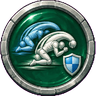
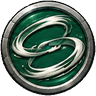
宝物11/印记19正式图标（图标优先用自己的图）；战场物件掉符文（狂暴/急速/疾风/守护/回复，10秒）和小概率技能书
Claude-Session: https://claude.ai/code/session_015MetZpZfHySQWDEPDS41Tu

diff --git a/js/battle.js b/js/battle.js
@@ -88,6 +88,7 @@
     m.dmg = (1 + (c.fx.dmg || 0)) * (1 + .03 * (G.lv - 1)) * (1 + (TT().dmg || 0)); m.spd = c.spd; m.area = c.area; m.move = c.move;
     hero.critP = c.critP; hero.critM = c.critM; hero.critMulP = c.critMulP; hero.critMulM = c.critMulM; hero.eva = c.eva + (RUN.hero === 'e' ? .08 : 0); hero.pIn = c.pIn; hero.mIn = c.mIn; hero.xpMul = c.xp * (RUN.hero === 'm' ? 1.1 : 1); hero.rollMax = 3; hero.rollN0 = 2; if (hero.rollN == null || hero.rollN > hero.rollN0) hero.rollN = hero.rollN0; /* 11/24 翻滚 2 格（二段滚 3 格），每格 1.5 秒回 */ hero.A = c.A; hero.fx = c.fx;   // 人物被动：男主经验 +10%，女主翻滚冷却 −20%（11/23 修：hero.A / hero.fx 之前被注释吞掉了）   // 11/26 戈拉斯尔：自带闪避 +8%
     hero.ob = {}; while (RUN.oath.length < DATA.oathSize) RUN.oath.push(null); RUN.oath.forEach((o, i) => { if (o && DATA.oaths[o.id] && (!DATA.oaths[o.id].w || DATA.heldWeapons(RUN).has(DATA.oaths[o.id].w))) hero.ob[o.id] = DATA.oathLv[Math.min(5, o.lv || 1) - 1] * (i === 0 ? 1 : .5); }); for (const o of RUN.mv || []) if (o && DATA.oaths[o.id]) hero.ob[o.id] = DATA.oathLv[Math.min(5, o.lv || 1) - 1]; if (OB('traveler')) hero.eva += .01;
+    { const rn = hero.rune; if (rn && rn.t > 0) { if (rn.k === 'rage') m.dmg *= 1.25; if (rn.k === 'haste') m.spd *= 1.3; if (rn.k === 'wind') m.move *= 1.3; } }   /* 11/27 符文（10 秒，可超上限） */
     m.spd *= 1 + .08 * OB('jifeng'); hero.rollMax *= 1 - .08 * OB('qingyu'); hero.rollMul = 1 + .15 * OB('youlong');
     { const st = DATA.setOf(RUN.slots), F = {}; for (const t of Object.values(st.on)) for (const [k, v] of Object.entries(t[1])) F[k] = (F[k] || 0) + v; hero.setF = F;   // 11/24 流派羁绊
       if (F.dmg) m.dmg *= 1 + F.dmg; if (hero.fx) for (const k of ['sspd_bow', 'srng_bow', 'sdmg_staff']) if (F[k]) hero.fx[k] = (hero.fx[k] || 0) + F[k];
@@ -1268,9 +1269,18 @@
       for (let i = 0; i < 12; i++) parts.push({ x: p.x, y: p.y, vx: R(-70, 70) * K, vy: R(-90, -20) * K, t: 0, T: R(.4, .8), col: i % 3 ? '#8a6038' : '#c8a070', g: 220 * K });
       const n = Math.round((p.k === 'barrel' ? 2 + G.st : p.k === 'crate' ? 3 + G.st : 4 + G.st) * (1 + (hero.fx.propCoin || 0))); if (hero.fx.firstBreak && !G.purseBreak) { G.purseBreak = true; G.gi.push({ kind: 'use', id: 'meat', x: p.x, y: p.y, t: 0 }); }
       if (Math.random() < (p.k === 'barrel' ? .7 : .85)) for (let i = 0, m = 1 + (Math.random() < .5); i < m; i++) G.gc.push({ x: p.x, y: p.y, v: n, t: 0, h: 0, vh: 90, vx: R(-20, 20) * K });
-      if (p.k === 'crate' && Math.random() < .12) { const h = healHero(hero.maxHp * .06); if (h > 0) nums.push({ x: p.x, y: p.y - 40 * K, txt: '+' + Math.round(h), t: 0, col: '#7ee27e' }); } }
+      { const rr = p.k === 'barrel' ? .08 : p.k === 'crate' ? .15 : .40; G.runes = G.runes || []; if (Math.random() < rr) G.runes.push({ k: RUNES[Math.random() * RUNES.length | 0], x: p.x + R(-14, 14) * K, y: p.y + R(-6, 6) * K, t: 0 });   // 11/27 符文掉落
+        if (Math.random() < (p.k === 'barrel' ? .02 : p.k === 'crate' ? .03 : .06)) G.gi.push({ kind: 'book', x: p.x, y: p.y, t: 0 }); } }
   }
-  function propsTick(dt) {
+  const RUNES = ['rage', 'haste', 'wind', 'guard', 'heal'], RUNE_C = { rage: '#ff5a4a', haste: '#ffd84a', wind: '#5ab8ff', guard: '#d8e4f0', heal: '#6ee27a' }, RUNE_N = { rage: '狂暴符文 · 伤害 +25%', haste: '急速符文 · 出手 +30%', wind: '疾风符文 · 移速 +30%', guard: '守护符文 · 护盾', heal: '回复符文' };
+  function runeTick(dt) { if (hero.rune && hero.rune.t > 0 && (hero.rune.t -= dt) <= 0) { hero.rune = null; recompute(); }
+    if (!G.runes) return; for (const r of G.runes) { r.t += dt; if (r.t > .3 && !hero.dead && Math.hypot(r.x - hero.x, (r.y - hero.y) * YS) < 22 * K) { r.got = 1; SFX.play('lv');
+        if (r.k === 'heal') { const h = healHero(hero.maxHp * .08); if (h > 0) nums.push({ x: hero.x, y: hero.y - 50 * K, txt: '+' + Math.round(h), t: 0, col: '#7ee27e' }); }
+        else if (r.k === 'guard') hero.mShield = Math.max(hero.mShield || 0, hero.maxHp * .1);
+        else { hero.rune = { k: r.k, t: 10 }; recompute(); }
+        nums.push({ x: hero.x, y: hero.y - 70 * K, txt: RUNE_N[r.k], t: 0, col: RUNE_C[r.k] }); } }
+    G.runes = G.runes.filter(r => !r.got && r.t < 8); }
+  function propsTick(dt) { runeTick(dt);
     if (!G.props) return;
     for (const p of G.props) { if (p.hitT > 0) p.hitT -= dt; if (!p.brk && p.hp < 50 && hero.roll > 0 && Math.hypot(p.x - hero.x, (p.y - hero.y) * YS) < 26 * K) propHit(p.x, p.y, 9999); }
     const live = G.waveOn && !G.fe && !G.over && !(G.ready > 0) && !hero.dead && !G.winT;
@@ -1306,6 +1316,8 @@
   }
   function propsEntries() {
     const L = [], im = (n, x, y, sc = 1, a = 1) => { const I = pim(n); if (!okI(I)) return; ctx.save(); ctx.imageSmoothingEnabled = false; ctx.globalAlpha = a; const w = I.naturalWidth * u * sc, h = I.naturalHeight * u * sc; ctx.drawImage(I, rd(X(x) - w / 2), rd(Y(y) - h), w, h); ctx.restore(); };
+    for (const r of G.runes || []) L.push({ y: r.y, d: () => { const x = X(r.x), y = Y(r.y) - (14 + 4 * Math.sin(G.t * 4 + r.x)) * u, a = r.t > 6 ? (Math.floor(r.t * 8) % 2 ? .4 : 1) : 1; ctx.save(); ctx.globalAlpha = a; ctx.globalCompositeOperation = 'lighter'; const gr = ctx.createRadialGradient(x, y, 0, x, y, 14 * u); gr.addColorStop(0, '#fff'); gr.addColorStop(.35, RUNE_C[r.k]); gr.addColorStop(1, 'rgba(0,0,0,0)'); ctx.fillStyle = gr; ctx.beginPath(); ctx.arc(x, y, 14 * u, 0, 7); ctx.fill(); ctx.restore(); } });
+    if (hero.rune && hero.rune.t > 0) L.push({ y: 99998, d: () => { const x = X(hero.x), y = Y(hero.y) - 62 * u, f = hero.rune.t / 10; if (hero.rune.t < 3 && Math.floor(G.t * 6) % 2) return; ctx.save(); ctx.strokeStyle = RUNE_C[hero.rune.k]; ctx.lineWidth = 2.5 * u; ctx.beginPath(); ctx.arc(x, y, 6 * u, -Math.PI / 2, -Math.PI / 2 + f * 2 * Math.PI); ctx.stroke(); ctx.fillStyle = RUNE_C[hero.rune.k]; ctx.beginPath(); ctx.arc(x, y, 3 * u, 0, 7); ctx.fill(); ctx.restore(); } });
     for (const p of G.props || []) { const fa = p.brk ? Math.max(0, Math.min(1, 3 - (G.t - (p.bt || 0)))) : 1; if (!fa) continue;   /* 11/27 残骸 2 秒后 1 秒淡出消失 */
       L.push({ y: p.y, d: () => { if (!p.brk) shadow(p.x, p.y, p.k === 'banner' || p.k === 'rack' ? 22 : 13);
       if (p.k === 'brazier') { im('brazier_b', p.x, p.y); const [sx, sy] = [X(p.x), Y(p.y) - 26 * u], r = (30 + 4 * Math.sin(G.t * 9 + p.x)) * u; ctx.save(); ctx.globalCompositeOperation = 'lighter'; const g = ctx.createRadialGradient(sx, sy, 0, sx, sy, r); g.addColorStop(0, 'rgba(255,170,70,.35)'); g.addColorStop(1, 'rgba(255,90,20,0)'); ctx.fillStyle = g; ctx.fillRect(sx - r, sy - r, 2 * r, 2 * r); ctx.restore(); }

diff --git a/js/ui.js b/js/ui.js
@@ -31,10 +31,10 @@
   const BOOK = { sword: 'bk_sword', spear: 'bk_spear', bow: 'bk_bow', fire: 'bk_wand', nova: 'bk_wand', wand: 'bk_wand', staff: 'bk_wand', axe: 'bk_axe' };
   const SYSBK = { '剑': 'bk_sword', '枪': 'bk_spear', '弓': 'bk_bow', '法杖': 'bk_wand', '光枪': 'bk_bow', '通用': 'bk_sword', '圣典':'bk_wand', '镰刀':'bk_sword' };
   const bookOf = id => pi(SYSBK[(DATA.skills[id] || {}).sys] || 'bk_sword'), skIcon = id => { const im = pi('sk/' + id), ru = DATA.skills[id]?.reuseIcon; if (ru) im.onerror = () => { im.onerror = null; im.src = 'art/ui2/sk/' + ru + '.png'; };   /* 11/27 优先用自己的正式图标，缺图才借用 */ im.classList.add('skic'); return im; };
-  function pi(name, k = 2) { const item=DATA.startItems.find(i=>i.id===name);if(item?.reuseIcon)name=item.reuseIcon;
-    if(name.startsWith('oath/')&&!['traveler','xianfeng','sanji','jingshou','fanji','tulong','jifeng','lianzhan','pozhu','youlong','canying','qingyu','zhendi','anying'].includes(name.slice(5)))name='oath/qingyu';
-    if (name === 'oath/traveler') name = 'oath/qingyu'; if (name === 'end') name = 'amulet';   // 11/23 耐力用护身符图标，和物防的盾分开
-    const im = new Image(); im.className = 'pi'; im.alt = ''; im.draggable = false; im.src = 'art/ui2/' + name + '.png'; const s = (window.UIART || {})[name]; if (s) { im.width = s[0] * k; im.height = s[1] * k; } return im; }
+  function pi(name, k = 2) { const item=DATA.startItems.find(i=>i.id===name), fb=item?.reuseIcon;   /* 11/27 先用自己的正式图标，缺图才借用 */
+    const fbo = name.startsWith('oath/') ? 'oath/qingyu' : fb;
+    if (name === 'end') name = 'amulet';   // 11/23 耐力用护身符图标，和物防的盾分开
+    const im = new Image(); im.className = 'pi'; im.alt = ''; im.draggable = false; im.src = 'art/ui2/' + name + '.png'; if (fbo) im.onerror = () => { im.onerror = null; im.src = 'art/ui2/' + fbo + '.png'; }; const s = (window.UIART || {})[name]; if (s) { im.width = s[0] * k; im.height = s[1] * k; } return im; }
   const piH = (name, k) => pi(name, k).outerHTML;
   function careerIcon(book) { if (!book?.job) return skIcon(book.id); const w = document.createElement('span'); w.className = `careerIcon ${book.job.final?'final':''}`; w.title = JOBS.name(book); const fam=book.job.families,img=new Image();img.className='careerEmblem';img.alt=JOBS.name(book);img.src='art/jobs/'+(book.job.final?JOBS.key(fam).replace('|','-'):fam[0])+'.png';w.appendChild(img); /* 11/27 正式职业纹章 */ if(!book.job.final){const bar=document.createElement('i');bar.className='careerProgress';bar.style.setProperty('--p',`${Math.max(0,Math.min(100,100*(book.job.progress||0)/JOBS.PROGRESS_MAX))}%`);w.appendChild(bar);}return w; }
 
@@ -106,8 +106,8 @@
       if(!has) g.lastChild.querySelector('.ic').textContent='？';
     }
     if (k === 'book') for (const sys of ['剑', '枪', '弓', '法杖', '光枪', '通用', '圣典', '镰刀']) { g.insertAdjacentHTML('beforeend', `<div class="cxh">— ${sys} —</div>`); for (const [id, S] of Object.entries(DATA.skills)) if (S.sys === sys) card(SEEN.has('s:' + id), own('art/ui2/sk/' + id + '.png'), S.name, `${S.sys} · ${DATA.tierName[S.tier]} · ${S.dt === 'magic' ? '魔法' : '物理'}`, `${S.desc}${['l3', 'l5', 'l7'].filter(x => S[x]).map(x => `<br><span class="lv">Lv${x.slice(1)}：${S[x]}</span>`).join('')}`); }
-    if (k === 'item') for (const it of DATA.startItems.slice().sort((a, b) => DATA.itemTier(a) - DATA.itemTier(b))) { const tr = DATA.itemTier(it); card(SEEN.has('i:' + it.id), it.reuseIcon ? ph() : pi(it.id), it.name, '宝物 · ' + DATA.tierName[DATA.itemTier(it)], typeof it.d === 'function' ? it.d(1) : (it.desc || '')); g.lastChild.classList.add('t' + tr); }
-    if (k === 'oath') for (const [id, O] of Object.entries(DATA.oaths)) { const ic = OWN_OATH.includes(id) ? pi('oath/' + id) : ph(); ic.classList.add('oimg'); card(SEEN.has('o:' + id), ic, O.name, O.mv ? '身法印记' : '誓约印记', O.d(DATA.oathLv[4]) + '<br><span class="lv">（满级效果）</span>'); }
+    if (k === 'item') for (const it of DATA.startItems.slice().sort((a, b) => DATA.itemTier(a) - DATA.itemTier(b))) { const tr = DATA.itemTier(it); card(SEEN.has('i:' + it.id), own('art/ui2/' + it.id + '.png'), it.name, '宝物 · ' + DATA.tierName[DATA.itemTier(it)], typeof it.d === 'function' ? it.d(1) : (it.desc || '')); g.lastChild.classList.add('t' + tr); }
+    if (k === 'oath') for (const [id, O] of Object.entries(DATA.oaths)) { const ic = own('art/ui2/oath/' + id + '.png'); ic.classList.add('oimg'); card(SEEN.has('o:' + id), ic, O.name, O.mv ? '身法印记' : '誓约印记', O.d(DATA.oathLv[4]) + '<br><span class="lv">（满级效果）</span>'); }
     if (k === 'job' && window.JOBS) { const FN = { sword: '剑', spear: '枪', bow: '弓', staff: '法杖', gun: '光枪', common: '通用', tome: '圣典', scythe: '镰刀' };
       g.insertAdjacentHTML('beforeend', '<div class="cxh">— 一转 —</div>'); for (const [f, [n, d]] of Object.entries(JOBS.careers)) card(SEEN.has('j:' + f), own('art/jobs/' + f + '.png'), n, `一转 · ${FN[f] || f}系两本 Lv7 合成`, d);
       g.insertAdjacentHTML('beforeend', '<div class="cxh">— 最终职业 —</div>'); for (const [key, [n, d]] of Object.entries(JOBS.finals)) card(SEEN.has('j:' + key), own('art/jobs/' + key.replace('|', '-') + '.png'), n, '最终职业 · ' + key.split('|').map(f => FN[f] || f).join(' + '), d); }
